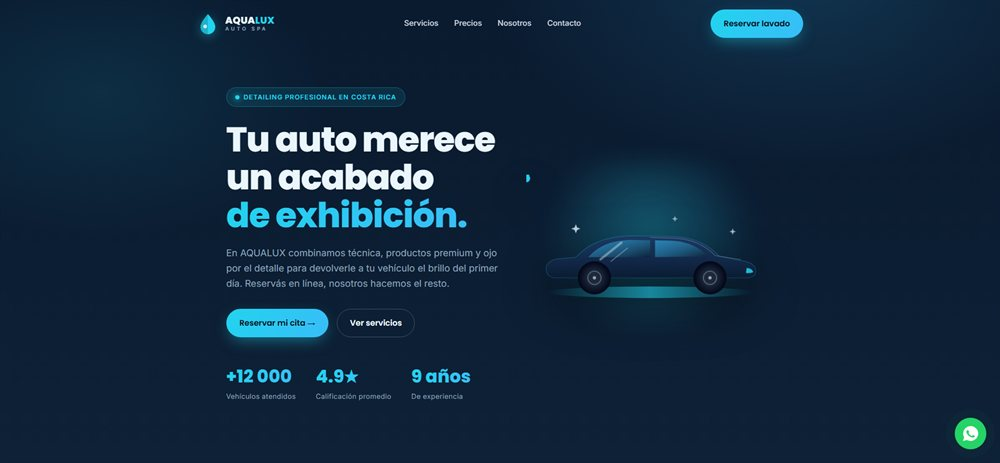
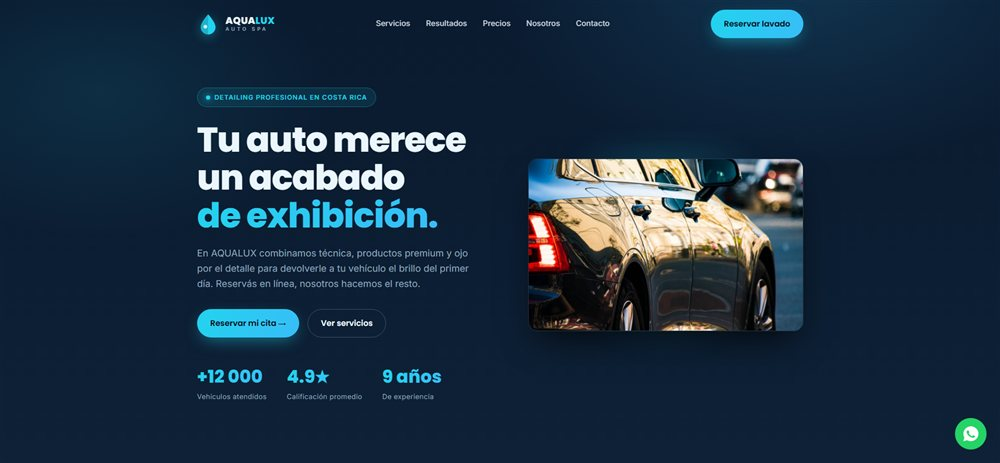
Lavacar hero con foto real + iconos SVG a medida (sin emojis) en las 4 paginas demo

diff --git a/proyectos/lavacar-premium/index.html b/proyectos/lavacar-premium/index.html
@@ -118,6 +118,8 @@
     filter:blur(20px);z-index:0;
   }
   .car-svg{position:relative;z-index:1;width:100%;max-width:560px;filter:drop-shadow(0 30px 40px rgba(0,0,0,.5))}
+  .car-photo{position:relative;z-index:1;width:100%;max-width:560px;border-radius:18px;
+     box-shadow:0 30px 60px -18px rgba(0,0,0,.75);border:1px solid rgba(255,255,255,.1);display:block}
   .droplet{animation:float 5s ease-in-out infinite}
   .droplet:nth-child(2){animation-delay:.8s}
   .droplet:nth-child(3){animation-delay:1.6s}
@@ -151,9 +153,10 @@
   .card:hover::before{opacity:1}
   .card .icon{
     width:60px;height:60px;border-radius:16px;display:flex;align-items:center;justify-content:center;
-    font-size:1.9rem;margin-bottom:20px;
+    font-size:1.9rem;margin-bottom:20px;color:var(--aqua);
     background:rgba(34,211,238,.12);border:1px solid rgba(34,211,238,.25);
   }
+  .ba-hint .swipe-ico{width:1em;height:1em;vertical-align:-.15em;margin-right:.15em;color:var(--aqua)}
   .card h3{font-size:1.28rem;font-weight:600;margin-bottom:10px}
   .card p{color:var(--muted);font-size:.95rem}
 
@@ -343,7 +346,8 @@
 
     <div class="hero-visual reveal">
       <div class="glow"></div>
-      <svg class="car-svg" viewBox="0 0 600 340" xmlns="http://www.w3.org/2000/svg" role="img" aria-label="Ilustración de un auto brillante con destellos y gotas de agua">
+      <img class="car-photo" src="img/hero-car.jpg" alt="Auto con acabado de detailing, brillo espejo">
+      <svg class="car-svg" style="display:none" viewBox="0 0 600 340" xmlns="http://www.w3.org/2000/svg" role="img" aria-label="Ilustración de un auto brillante con destellos y gotas de agua">
         <defs>
           <linearGradient id="body" x1="0" y1="0" x2="0" y2="1">
             <stop offset="0" stop-color="#1b3a63"/><stop offset=".55" stop-color="#12294a"/><stop offset="1" stop-color="#0b1c33"/>
@@ -439,12 +443,12 @@
       <p>Cada servicio se realiza con productos de grado profesional y personal certificado. Elegí lo que tu auto necesita hoy.</p>
     </div>
     <div class="cards">
-      <div class="card reveal"><div class="icon">💦</div><h3>Lavado Express</h3><p>Lavado exterior a mano, secado premium y llantas brillantes en menos de 30 minutos. Ideal para tu rutina semanal.</p></div>
-      <div class="card reveal"><div class="icon">✨</div><h3>Lavado Premium</h3><p>Exterior e interior completo: aspirado profundo, limpieza de tablero, vidrios y aromatización a elección.</p></div>
-      <div class="card reveal"><div class="icon">🛡️</div><h3>Encerado &amp; Sellado</h3><p>Cera de carnauba y sellador sintético que protegen la pintura del sol tropical y realzan el brillo hasta por 3 meses.</p></div>
-      <div class="card reveal"><div class="icon">🧴</div><h3>Detailing Interior</h3><p>Shampoo de tapicería, tratamiento de cuero, descontaminación de plásticos y eliminación de olores a nivel profundo.</p></div>
-      <div class="card reveal"><div class="icon">💡</div><h3>Pulido de Faros</h3><p>Devolvemos la transparencia a faros opacos o amarillentos para más seguridad y una mirada como nueva.</p></div>
-      <div class="card reveal"><div class="icon">💎</div><h3>Tratamiento Cerámico</h3><p>Recubrimiento cerámico 9H con hidrofobia extrema y protección de brillo espejo por hasta 3 años.</p></div>
+      <div class="card reveal"><div class="icon"><svg width="26" height="26" viewBox="0 0 24 24" fill="none" stroke="currentColor" stroke-width="2" stroke-linecap="round" stroke-linejoin="round" style="display:block" aria-hidden="true"><path d="M12 2.7c3.6 4.3 6 7.5 6 10.6a6 6 0 0 1-12 0c0-1.6.6-3.1 1.6-4.7"/><path d="M5.5 15.5c.9 1 .9 2.5 0 3.5M3 12.5c.7.8.7 2 0 2.8"/></svg></div><h3>Lavado Express</h3><p>Lavado exterior a mano, secado premium y llantas brillantes en menos de 30 minutos. Ideal para tu rutina semanal.</p></div>
+      <div class="card reveal"><div class="icon"><svg width="26" height="26" viewBox="0 0 24 24" fill="none" stroke="currentColor" stroke-width="2" stroke-linecap="round" stroke-linejoin="round" style="display:block" aria-hidden="true"><path d="M12 3l1.8 4.7L18.5 9l-4.7 1.8L12 15.5l-1.8-4.7L5.5 9l4.7-1.3z"/><path d="M18 15l.7 1.9 1.8.6-1.8.6-.7 1.9-.7-1.9-1.8-.6 1.8-.6z"/><path d="M6 15.5l.5 1.4 1.4.5-1.4.5-.5 1.4-.5-1.4-1.4-.5 1.4-.5z"/></svg></div><h3>Lavado Premium</h3><p>Exterior e interior completo: aspirado profundo, limpieza de tablero, vidrios y aromatización a elección.</p></div>
+      <div class="card reveal"><div class="icon"><svg width="26" height="26" viewBox="0 0 24 24" fill="none" stroke="currentColor" stroke-width="2" stroke-linecap="round" stroke-linejoin="round" style="display:block" aria-hidden="true"><path d="M12 2.5l7 3v5.5c0 4.4-3 8.1-7 10.5-4-2.4-7-6.1-7-10.5V5.5z"/><path d="M9 12l2 2 4-4.5"/></svg></div><h3>Encerado &amp; Sellado</h3><p>Cera de carnauba y sellador sintético que protegen la pintura del sol tropical y realzan el brillo hasta por 3 meses.</p></div>
+      <div class="card reveal"><div class="icon"><svg width="26" height="26" viewBox="0 0 24 24" fill="none" stroke="currentColor" stroke-width="2" stroke-linecap="round" stroke-linejoin="round" style="display:block" aria-hidden="true"><path d="M9 8h4a2 2 0 0 1 2 2v10a1 1 0 0 1-1 1H8a1 1 0 0 1-1-1V10a2 2 0 0 1 2-2z"/><path d="M9 8V6h3V4h4M12 4v2"/><path d="M18 5h1M20 4h1M19 7h1"/></svg></div><h3>Detailing Interior</h3><p>Shampoo de tapicería, tratamiento de cuero, descontaminación de plásticos y eliminación de olores a nivel profundo.</p></div>
+      <div class="card reveal"><div class="icon"><svg width="26" height="26" viewBox="0 0 24 24" fill="none" stroke="currentColor" stroke-width="2" stroke-linecap="round" stroke-linejoin="round" style="display:block" aria-hidden="true"><path d="M9 18h6M10 21h4"/><path d="M12 3a6 6 0 0 1 4 10.5c-.6.6-1 1.4-1 2.3v.2H9v-.2c0-.9-.4-1.7-1-2.3A6 6 0 0 1 12 3z"/></svg></div><h3>Pulido de Faros</h3><p>Devolvemos la transparencia a faros opacos o amarillentos para más seguridad y una mirada como nueva.</p></div>
+      <div class="card reveal"><div class="icon"><svg width="26" height="26" viewBox="0 0 24 24" fill="none" stroke="currentColor" stroke-width="2" stroke-linecap="round" stroke-linejoin="round" style="display:block" aria-hidden="true"><path d="M6 3h12l3 6-9 12L3 9z"/><path d="M3 9h18M8.5 3l-2.5 6L12 21M15.5 3l2.5 6L12 21"/></svg></div><h3>Tratamiento Cerámico</h3><p>Recubrimiento cerámico 9H con hidrofobia extrema y protección de brillo espejo por hasta 3 años.</p></div>
     </div>
   </div>
 </section>
@@ -490,7 +494,7 @@
       <span class="ba-tag ba-tag-b">Después</span>
       <div class="ba-handle"><span class="ba-line"></span><span class="ba-grip">⇆</span></div>
     </div>
-    <p class="ba-hint">👆 Arrastrá el círculo de lado a lado</p>
+    <p class="ba-hint"><svg class="swipe-ico" viewBox="0 0 24 24" fill="none" stroke="currentColor" stroke-width="2" stroke-linecap="round" stroke-linejoin="round" aria-hidden="true"><path d="M6 10 3 13l3 3M18 10l3 3-3 3M9 13h6"/><path d="M12 3v6"/></svg> Arrastrá el círculo de lado a lado</p>
 
     <div class="sec-head reveal" style="margin-top:100px">
       <span class="sec-tag">Galería</span>
@@ -661,7 +665,7 @@
 
     <div class="foot-bottom">
       <span>© 2026 AQUALUX Auto Spa. Todos los derechos reservados.</span>
-      <span>Hecho con brillo en Costa Rica 🇨🇷 · Cédula jurídica 3-101-889012</span>
+      <span>Hecho con brillo en Costa Rica · Cédula jurídica 3-101-889012</span>
     </div>
   </div>
 </footer>

diff --git a/proyectos/taller-autos/index.html b/proyectos/taller-autos/index.html
@@ -126,7 +126,7 @@
     position:absolute;background:var(--card);border:1px solid var(--line);border-radius:12px;
     padding:12px 16px;box-shadow:var(--shadow);display:flex;align-items:center;gap:11px;z-index:5;
   }
-  .badge-float .bi{width:38px;height:38px;border-radius:9px;background:rgba(255,106,0,.14);display:grid;place-items:center;font-size:19px;flex:0 0 38px}
+  .badge-float .bi{width:38px;height:38px;border-radius:9px;background:rgba(255,106,0,.14);display:grid;place-items:center;font-size:19px;flex:0 0 38px;color:var(--accent)}
   .badge-float b{font-family:'Barlow Condensed',sans-serif;font-size:17px;display:block;line-height:1}
   .badge-float small{color:var(--muted);font-size:12px}
   .badge-1{top:14px;left:-6px;animation:float 5.5s ease-in-out infinite}
@@ -150,7 +150,7 @@
   .card::after{content:"";position:absolute;left:0;top:0;height:3px;width:0;background:var(--accent);transition:width .3s ease}
   .card:hover{transform:translateY(-8px);border-color:rgba(255,106,0,.35);box-shadow:var(--shadow)}
   .card:hover::after{width:100%}
-  .card .ico{width:56px;height:56px;border-radius:12px;background:rgba(255,106,0,.12);border:1px solid rgba(255,106,0,.25);display:grid;place-items:center;font-size:26px;margin-bottom:18px}
+  .card .ico{width:56px;height:56px;border-radius:12px;background:rgba(255,106,0,.12);border:1px solid rgba(255,106,0,.25);display:grid;place-items:center;font-size:26px;margin-bottom:18px;color:var(--accent)}
   .card h3{font-size:24px;font-weight:700;margin-bottom:9px}
   .card p{color:var(--muted);font-size:15px}
 
@@ -305,11 +305,11 @@
 
     <div class="hero-visual" aria-hidden="true">
       <div class="badge-float badge-1">
-        <span class="bi">🛡️</span>
+        <span class="bi"><svg width="20" height="20" viewBox="0 0 24 24" fill="none" stroke="currentColor" stroke-width="2" stroke-linecap="round" stroke-linejoin="round" style="display:block" aria-hidden="true"><path d="M12 22s8-4 8-10V5l-8-3-8 3v7c0 6 8 10 8 10z"/><path d="m9 12 2 2 4-4"/></svg></span>
         <span><b>Garantía escrita</b><small>Hasta 12 meses</small></span>
       </div>
       <div class="badge-float badge-2">
-        <span class="bi">⚙️</span>
+        <span class="bi"><svg width="20" height="20" viewBox="0 0 24 24" fill="none" stroke="currentColor" stroke-width="2" stroke-linecap="round" stroke-linejoin="round" style="display:block" aria-hidden="true"><path d="M12 15a3 3 0 1 0 0-6 3 3 0 0 0 0 6z"/><path d="M19.4 15a1.65 1.65 0 0 0 .33 1.82l.06.06a2 2 0 1 1-2.83 2.83l-.06-.06a1.65 1.65 0 0 0-1.82-.33 1.65 1.65 0 0 0-1 1.51V21a2 2 0 0 1-4 0v-.09A1.65 1.65 0 0 0 9 19.4a1.65 1.65 0 0 0-1.82.33l-.06.06a2 2 0 1 1-2.83-2.83l.06-.06a1.65 1.65 0 0 0 .33-1.82 1.65 1.65 0 0 0-1.51-1H3a2 2 0 0 1 0-4h.09A1.65 1.65 0 0 0 4.6 9a1.65 1.65 0 0 0-.33-1.82l-.06-.06a2 2 0 1 1 2.83-2.83l.06.06a1.65 1.65 0 0 0 1.82.33H9a1.65 1.65 0 0 0 1-1.51V3a2 2 0 0 1 4 0v.09a1.65 1.65 0 0 0 1 1.51 1.65 1.65 0 0 0 1.82-.33l.06-.06a2 2 0 1 1 2.83 2.83l-.06.06a1.65 1.65 0 0 0-.33 1.82V9a1.65 1.65 0 0 0 1.51 1H21a2 2 0 0 1 0 4h-.09a1.65 1.65 0 0 0-1.51 1z"/></svg></span>
         <span><b>Scanner OBD-II</b><small>Diagnóstico preciso</small></span>
       </div>
       <svg viewBox="0 0 460 460" width="100%" style="max-width:460px">
@@ -371,12 +371,12 @@
       <p>Atendemos todas las marcas y modelos con equipo de última generación y técnicos certificados. Un solo taller para todo lo que tu carro necesita.</p>
     </div>
     <div class="grid-3">
-      <div class="card reveal"><div class="ico">🖥️</div><h3>Diagnóstico computarizado</h3><p>Escaneo OBD-II completo para detectar fallas del motor, sensores y sistemas electrónicos con precisión antes de reparar.</p></div>
-      <div class="card reveal"><div class="ico">🔧</div><h3>Mecánica general</h3><p>Motor, transmisión, correa de tiempo, embrague y afinamiento. Mantenimiento preventivo y correctivo para todas las marcas.</p></div>
-      <div class="card reveal"><div class="ico">🛑</div><h3>Frenos</h3><p>Cambio de pastillas, discos, rectificado y purga de líquido. Revisión completa del sistema para tu seguridad en carretera.</p></div>
-      <div class="card reveal"><div class="ico">🚗</div><h3>Suspensión y dirección</h3><p>Amortiguadores, rótulas, terminales y alineación. Recupera la estabilidad y el confort de manejo de tu vehículo.</p></div>
-      <div class="card reveal"><div class="ico">🛢️</div><h3>Cambio de aceite</h3><p>Aceite sintético y semisintético de marcas líderes, con cambio de filtros y revisión de niveles incluida en cada servicio.</p></div>
-      <div class="card reveal"><div class="ico">⚡</div><h3>Sistema eléctrico</h3><p>Alternador, batería, arranque, luces y cableado. Diagnóstico y reparación de fallas eléctricas con garantía.</p></div>
+      <div class="card reveal"><div class="ico"><svg width="26" height="26" viewBox="0 0 24 24" fill="none" stroke="currentColor" stroke-width="2" stroke-linecap="round" stroke-linejoin="round" style="display:block" aria-hidden="true"><rect x="2" y="3" width="20" height="14" rx="2"/><path d="M8 21h8M12 17v4M6 7h6M6 10.5h4"/></svg></div><h3>Diagnóstico computarizado</h3><p>Escaneo OBD-II completo para detectar fallas del motor, sensores y sistemas electrónicos con precisión antes de reparar.</p></div>
+      <div class="card reveal"><div class="ico"><svg width="26" height="26" viewBox="0 0 24 24" fill="none" stroke="currentColor" stroke-width="2" stroke-linecap="round" stroke-linejoin="round" style="display:block" aria-hidden="true"><path d="M14.7 6.3a1 1 0 0 0 0 1.4l1.6 1.6a1 1 0 0 0 1.4 0l3.77-3.77a6 6 0 0 1-7.94 7.94l-6.91 6.91a2.12 2.12 0 0 1-3-3l6.91-6.91a6 6 0 0 1 7.94-7.94l-3.76 3.76z"/></svg></div><h3>Mecánica general</h3><p>Motor, transmisión, correa de tiempo, embrague y afinamiento. Mantenimiento preventivo y correctivo para todas las marcas.</p></div>
+      <div class="card reveal"><div class="ico"><svg width="26" height="26" viewBox="0 0 24 24" fill="none" stroke="currentColor" stroke-width="2" stroke-linecap="round" stroke-linejoin="round" style="display:block" aria-hidden="true"><circle cx="12" cy="12" r="9"/><circle cx="12" cy="12" r="3.5"/><path d="M12 3.5v2.2M12 18.3v2.2M3.5 12h2.2M18.3 12h2.2M6.05 6.05l1.55 1.55M16.4 16.4l1.55 1.55M17.95 6.05l-1.55 1.55M7.6 16.4l-1.55 1.55"/></svg></div><h3>Frenos</h3><p>Cambio de pastillas, discos, rectificado y purga de líquido. Revisión completa del sistema para tu seguridad en carretera.</p></div>
+      <div class="card reveal"><div class="ico"><svg width="26" height="26" viewBox="0 0 24 24" fill="none" stroke="currentColor" stroke-width="2" stroke-linecap="round" stroke-linejoin="round" style="display:block" aria-hidden="true"><path d="M19 17h2c.6 0 1-.4 1-1v-3c0-.9-.7-1.7-1.5-1.9-1.8-.5-4.5-1.1-4.5-1.1s-1.3-1.4-2.2-2.3c-.5-.4-1.1-.7-1.8-.7H5c-.6 0-1.1.4-1.4.9l-1.4 2.9C2 11.1 2 11.5 2 12v4c0 .6.4 1 1 1h2"/><circle cx="7" cy="17" r="2"/><path d="M9 17h6"/><circle cx="17" cy="17" r="2"/></svg></div><h3>Suspensión y dirección</h3><p>Amortiguadores, rótulas, terminales y alineación. Recupera la estabilidad y el confort de manejo de tu vehículo.</p></div>
+      <div class="card reveal"><div class="ico"><svg width="26" height="26" viewBox="0 0 24 24" fill="none" stroke="currentColor" stroke-width="2" stroke-linecap="round" stroke-linejoin="round" style="display:block" aria-hidden="true"><path d="M12 22a7 7 0 0 0 7-7c0-2-1-3.9-3-5.5s-3.5-4-4-6.5c-.5 2.5-2 4.9-4 6.5C6 11.1 5 13 5 15a7 7 0 0 0 7 7z"/></svg></div><h3>Cambio de aceite</h3><p>Aceite sintético y semisintético de marcas líderes, con cambio de filtros y revisión de niveles incluida en cada servicio.</p></div>
+      <div class="card reveal"><div class="ico"><svg width="26" height="26" viewBox="0 0 24 24" fill="none" stroke="currentColor" stroke-width="2" stroke-linecap="round" stroke-linejoin="round" style="display:block" aria-hidden="true"><polygon points="13 2 3 14 12 14 11 22 21 10 12 10 13 2"/></svg></div><h3>Sistema eléctrico</h3><p>Alternador, batería, arranque, luces y cableado. Diagnóstico y reparación de fallas eléctricas con garantía.</p></div>
     </div>
   </div>
 </section>
@@ -431,7 +431,7 @@
       </div>
       <div style="display:flex;gap:14px;flex-wrap:wrap">
         <a href="#contacto" class="btn btn-dark">Agendar cita</a>
-        <a href="tel:[phone redacted]" class="btn btn-ghost" style="border-color:rgba(0,0,0,.35);color:#111">📞 [phone redacted]</a>
+        <a href="tel:[phone redacted]" class="btn btn-ghost" style="border-color:rgba(0,0,0,.35);color:#111"><svg width="18" height="18" viewBox="0 0 24 24" fill="none" stroke="currentColor" stroke-width="2" stroke-linecap="round" stroke-linejoin="round" aria-hidden="true"><path d="M22 16.92v3a2 [phone redacted].[phone redacted] [phone redacted].[phone redacted].67A2 [phone redacted] 2h3a2 [phone redacted].84 0 0 0 .[phone redacted]-.45 2.11L8.09 9.91a16 16 0 0 0 6 6l1.27-1.27a2 [phone redacted]-.[phone redacted].81.7A2 [phone redacted].92z"/></svg> [phone redacted]</a>
       </div>
     </div>
   </div>
@@ -486,7 +486,7 @@
     </div>
     <div class="foot-bottom">
       <span>© 2026 MotorTech · Taller Automotriz S.A. — Cédula jurídica 3-101-XXXXXX. Todos los derechos reservados.</span>
-      <span>Hecho en Costa Rica 🇨🇷 · Sitio de demostración ficticio</span>
+      <span>Hecho en Costa Rica · Sitio de demostración ficticio</span>
     </div>
   </div>
 </footer>

diff --git a/proyectos/gym-titan/index.html b/proyectos/gym-titan/index.html
@@ -68,6 +68,8 @@ section{position:relative;z-index:1}
 .svc{background:var(--card);border:1px solid var(--line);border-radius:14px;padding:32px 28px;transition:.28s}
 .svc:hover{transform:translateY(-8px);border-color:rgba(198,255,0,.4);background:#20242b}
 .svc .ic{font-size:2rem;margin-bottom:16px}
+.svc .ic,.ic{color:var(--lime)}
+.ic svg{display:block}
 .svc h3{font-family:var(--os);text-transform:uppercase;font-size:1.25rem;letter-spacing:.03em;color:var(--ink)}
 .svc p{color:var(--mut);font-size:.94rem;margin-top:10px;font-weight:300}
 
@@ -181,12 +183,12 @@ footer{background:#0a0b0d;border-top:1px solid var(--line);padding:64px 0 28px}
       <p>Desde fuerza pura hasta cardio de alta intensidad, tenemos el programa perfecto para ti.</p>
     </div>
     <div class="grid">
-      <div class="svc rv"><div class="ic">🏋️</div><h3>Musculación</h3><p>Zona de peso libre y máquinas premium para ganar fuerza y masa muscular.</p></div>
-      <div class="svc rv"><div class="ic">🔥</div><h3>CrossFit</h3><p>Entrenamiento funcional de alta intensidad en box equipado con coach dedicado.</p></div>
-      <div class="svc rv"><div class="ic">🚴</div><h3>Spinning</h3><p>Clases de ciclismo indoor con música, luces y energía que te llevan al límite.</p></div>
-      <div class="svc rv"><div class="ic">🥊</div><h3>Boxeo</h3><p>Técnica, cardio y descarga total. Aprende a golpear y ponte en forma.</p></div>
-      <div class="svc rv"><div class="ic">🤸</div><h3>Funcional</h3><p>Movimientos naturales para mejorar movilidad, resistencia y coordinación.</p></div>
-      <div class="svc rv"><div class="ic">🧘</div><h3>Yoga & Movilidad</h3><p>Recupérate, gana flexibilidad y equilibra cuerpo y mente.</p></div>
+      <div class="svc rv"><div class="ic"><svg width="1em" height="1em" viewBox="0 0 24 24" fill="none" stroke="currentColor" stroke-width="2" stroke-linecap="round" stroke-linejoin="round" style="display:block"><path d="M4 8v8"/><path d="M6.5 5.5v13"/><path d="M6.5 12h11"/><path d="M17.5 5.5v13"/><path d="M20 8v8"/></svg></div><h3>Musculación</h3><p>Zona de peso libre y máquinas premium para ganar fuerza y masa muscular.</p></div>
+      <div class="svc rv"><div class="ic"><svg width="1em" height="1em" viewBox="0 0 24 24" fill="none" stroke="currentColor" stroke-width="2" stroke-linecap="round" stroke-linejoin="round" style="display:block"><path d="M8.5 14.5A2.5 2.5 0 0 0 11 12c0-1.38-.5-2-1-3-1.072-2.143-.224-4.054 2-6 .5 2.5 2 4.9 4 6.5 2 1.6 3 3.5 3 5.5a7 7 0 1 1-14 0c0-1.153.433-2.294 1-3a2.5 2.5 0 0 0 2.5 2.5z"/></svg></div><h3>CrossFit</h3><p>Entrenamiento funcional de alta intensidad en box equipado con coach dedicado.</p></div>
+      <div class="svc rv"><div class="ic"><svg width="1em" height="1em" viewBox="0 0 24 24" fill="none" stroke="currentColor" stroke-width="2" stroke-linecap="round" stroke-linejoin="round" style="display:block"><circle cx="18.5" cy="17.5" r="3.5"/><circle cx="5.5" cy="17.5" r="3.5"/><circle cx="15" cy="5" r="1"/><path d="M12 17.5V14l-3-3 4-3 2 3h2"/></svg></div><h3>Spinning</h3><p>Clases de ciclismo indoor con música, luces y energía que te llevan al límite.</p></div>
+      <div class="svc rv"><div class="ic"><svg width="1em" height="1em" viewBox="0 0 24 24" fill="none" stroke="currentColor" stroke-width="2" stroke-linecap="round" stroke-linejoin="round" style="display:block"><path d="M8 8a3 3 0 0 1 3-3h3a3 3 0 0 1 3 3v3a3 3 0 0 1-3 3h-3a3 3 0 0 1-3-3"/><path d="M8 8.5H6.5a1.75 1.75 0 0 0 0 3.5H8"/><path d="M10 14v2.5a2.5 2.5 0 0 0 2.5 2.5h1a2.5 2.5 0 0 0 2.5-2.5V14"/></svg></div><h3>Boxeo</h3><p>Técnica, cardio y descarga total. Aprende a golpear y ponte en forma.</p></div>
+      <div class="svc rv"><div class="ic"><svg width="1em" height="1em" viewBox="0 0 24 24" fill="none" stroke="currentColor" stroke-width="2" stroke-linecap="round" stroke-linejoin="round" style="display:block"><path d="M22 12h-4l-3 9L9 3l-3 9H2"/></svg></div><h3>Funcional</h3><p>Movimientos naturales para mejorar movilidad, resistencia y coordinación.</p></div>
+      <div class="svc rv"><div class="ic"><svg width="1em" height="1em" viewBox="0 0 24 24" fill="none" stroke="currentColor" stroke-width="2" stroke-linecap="round" stroke-linejoin="round" style="display:block"><circle cx="12" cy="5" r="2"/><path d="M12 9v2.5"/><path d="M6 18.5c1.2-2 3.5-3 6-3s4.8 1 6 3"/><path d="M6 18.5c1.8 1 3.8 1.5 6 1.5s4.2-.5 6-1.5"/><path d="M12 11.5 8 15"/><path d="M12 11.5 16 15"/></svg></div><h3>Yoga & Movilidad</h3><p>Recupérate, gana flexibilidad y equilibra cuerpo y mente.</p></div>
     </div>
   </div>
 </section>
@@ -244,10 +246,10 @@ footer{background:#0a0b0d;border-top:1px solid var(--line);padding:64px 0 28px}
       <h2>Más que un gimnasio</h2>
     </div>
     <div class="why-in">
-      <div class="rv"><div class="ic">👟</div><h3>Equipo premium</h3><p>Máquinas Technogym y peso libre de sobra, siempre en óptimas condiciones.</p></div>
-      <div class="rv"><div class="ic">🎓</div><h3>Coaches certificados</h3><p>Profesionales que te guían con técnica y seguridad en cada sesión.</p></div>
-      <div class="rv"><div class="ic">🕒</div><h3>Acceso 24/7</h3><p>Entrena a la hora que se ajuste a tu vida, todos los días.</p></div>
-      <div class="rv"><div class="ic">📊</div><h3>Seguimiento real</h3><p>Medimos tu progreso para que veas resultados, no solo sudor.</p></div>
+      <div class="rv"><div class="ic"><svg width="1em" height="1em" viewBox="0 0 24 24" fill="none" stroke="currentColor" stroke-width="2" stroke-linecap="round" stroke-linejoin="round" style="display:block"><path d="M2 16.5c0-1 .3-1.5 1-2l3-1 2.5-2.5c.4-.4 1-.3 1.3.2L11 13l5 1.5c2.5.7 4 1.8 5 3 .3.4.5 1 .5 1.5H3a1 1 0 0 1-1-1v-1.5Z"/><path d="M2 19h19"/><path d="M9.5 11.2 11 13"/></svg></div><h3>Equipo premium</h3><p>Máquinas Technogym y peso libre de sobra, siempre en óptimas condiciones.</p></div>
+      <div class="rv"><div class="ic"><svg width="1em" height="1em" viewBox="0 0 24 24" fill="none" stroke="currentColor" stroke-width="2" stroke-linecap="round" stroke-linejoin="round" style="display:block"><path d="M22 10 12 5 2 10l10 5 10-5Z"/><path d="M6 12v5c0 1 2.5 2.5 6 2.5s6-1.5 6-2.5v-5"/><path d="M22 10v6"/></svg></div><h3>Coaches certificados</h3><p>Profesionales que te guían con técnica y seguridad en cada sesión.</p></div>
+      <div class="rv"><div class="ic"><svg width="1em" height="1em" viewBox="0 0 24 24" fill="none" stroke="currentColor" stroke-width="2" stroke-linecap="round" stroke-linejoin="round" style="display:block"><circle cx="12" cy="12" r="9"/><path d="M12 7v5l3 2"/></svg></div><h3>Acceso 24/7</h3><p>Entrena a la hora que se ajuste a tu vida, todos los días.</p></div>
+      <div class="rv"><div class="ic"><svg width="1em" height="1em" viewBox="0 0 24 24" fill="none" stroke="currentColor" stroke-width="2" stroke-linecap="round" stroke-linejoin="round" style="display:block"><path d="M3 3v18h18"/><path d="M7 16v-5"/><path d="M12 16V8"/><path d="M17 16v-3"/></svg></div><h3>Seguimiento real</h3><p>Medimos tu progreso para que veas resultados, no solo sudor.</p></div>
     </div>
   </div>
 </section>

diff --git a/proyectos/nails-studio/index.html b/proyectos/nails-studio/index.html
@@ -154,7 +154,7 @@
     box-shadow: var(--shadow-md); padding: 12px 16px; display: flex; align-items: center; gap: 10px;
     font-size: 12px; font-weight: 600; color: var(--plum); letter-spacing: .3px;
   }
-  .float-chip .ic { width: 30px; height: 30px; border-radius: 10px; display: grid; place-items: center; font-size: 15px; background: var(--blush); }
+  .float-chip .ic { width: 30px; height: 30px; border-radius: 10px; display: grid; place-items: center; font-size: 15px; background: var(--blush); color: var(--rose-gold); }
   .chip-a { top: 8px; left: -24px; animation: floaty 6s ease-in-out infinite; }
   .chip-b { bottom: 18px; right: -20px; animation: floaty 6s ease-in-out infinite 1.6s; }
 
@@ -186,7 +186,7 @@
   .card-ic {
     width: 62px; height: 62px; border-radius: 18px; display: grid; place-items: center;
     font-size: 28px; background: linear-gradient(150deg, var(--blush), var(--blush-deep));
-    margin-bottom: 22px;
+    margin-bottom: 22px; color: var(--rose-gold);
   }
   .card h3 { font-size: 27px; margin-bottom: 10px; color: var(--plum); }
   .card p { font-size: 14.5px; color: var(--plum-soft); font-weight: 300; }
@@ -389,8 +389,8 @@
     </div>
 
     <div class="hero-visual reveal d2">
-      <div class="float-chip chip-a"><span class="ic">💅</span> Nail art a mano</div>
-      <div class="float-chip chip-b"><span class="ic">✨</span> Gelish de larga duración</div>
+      <div class="float-chip chip-a"><span class="ic"><svg width="1em" height="1em" viewBox="0 0 24 24" fill="none" stroke="currentColor" stroke-width="1.6" stroke-linecap="round" stroke-linejoin="round" style="display:block" aria-hidden="true"><path d="M15.5 3.5l5 5-8.6 8.6-5-5z"/><path d="M6.9 12.1l-3 3c-1 1-1 3.9-1 4.9 1 0 3.9 0 4.9-1l3-3"/><path d="M13.5 5.5l5 5"/></svg></span> Nail art a mano</div>
+      <div class="float-chip chip-b"><span class="ic"><svg width="1em" height="1em" viewBox="0 0 24 24" fill="none" stroke="currentColor" stroke-width="1.6" stroke-linecap="round" stroke-linejoin="round" style="display:block" aria-hidden="true"><path d="M12 3l1.8 5.2L19 10l-5.2 1.8L12 17l-1.8-5.2L5 10l5.2-1.8z"/><path d="M18.5 14.5l.6 1.9 1.9.6-1.9.6-.6 1.9-.6-1.9-1.9-.6 1.9-.6z"/></svg></span> Gelish de larga duración</div>
       <div class="hero-card">
         <div class="hand-wrap">
           <svg viewBox="0 0 380 420" fill="none" xmlns="http://www.w3.org/2000/svg" role="img" aria-label="Mano elegante con uñas pintadas">
@@ -463,32 +463,32 @@
     </div>
     <div class="cards">
       <div class="card reveal">
-        <div class="card-ic">💐</div>
+        <div class="card-ic"><svg width="1em" height="1em" viewBox="0 0 24 24" fill="none" stroke="currentColor" stroke-width="1.6" stroke-linecap="round" stroke-linejoin="round" style="display:block" aria-hidden="true"><path d="M10 3h4v3h-4z"/><path d="M9.5 6h5l1 2.4V19a2 2 0 0 1-2 2h-3a2 2 0 0 1-2-2V8.4z"/><path d="M8.5 12.5h7"/></svg></div>
         <h3>Manicura clásica</h3>
         <p>Limado, cutícula, hidratación y esmaltado tradicional con acabado impecable y duradero.</p>
       </div>
       <div class="card reveal d1">
-        <div class="card-ic">💎</div>
+        <div class="card-ic"><svg width="1em" height="1em" viewBox="0 0 24 24" fill="none" stroke="currentColor" stroke-width="1.6" stroke-linecap="round" stroke-linejoin="round" style="display:block" aria-hidden="true"><path d="M6 3h12l3 6-9 12L3 9z"/><path d="M3 9h18"/><path d="M9 3l-2.4 6L12 21M15 3l2.4 6L12 21"/></svg></div>
         <h3>Uñas acrílicas</h3>
         <p>Extensiones a medida con la forma y el largo que soñás, resistentes y naturales al tacto.</p>
       </div>
       <div class="card reveal d2">
-        <div class="card-ic">✨</div>
+        <div class="card-ic"><svg width="1em" height="1em" viewBox="0 0 24 24" fill="none" stroke="currentColor" stroke-width="1.6" stroke-linecap="round" stroke-linejoin="round" style="display:block" aria-hidden="true"><path d="M12 3l1.8 5.2L19 10l-5.2 1.8L12 17l-1.8-5.2L5 10l5.2-1.8z"/><path d="M18.5 14.5l.6 1.9 1.9.6-1.9.6-.6 1.9-.6-1.9-1.9-.6 1.9-.6z"/></svg></div>
         <h3>Gelish</h3>
         <p>Esmaltado semipermanente de brillo intenso que luce perfecto por más de tres semanas.</p>
       </div>
       <div class="card reveal">
-        <div class="card-ic">🎨</div>
+        <div class="card-ic"><svg width="1em" height="1em" viewBox="0 0 24 24" fill="none" stroke="currentColor" stroke-width="1.6" stroke-linecap="round" stroke-linejoin="round" style="display:block" aria-hidden="true"><path d="M12 3a9 9 0 1 0 0 18c1 0 1.5-.9 1-1.9-.5-1.2.4-2.1 1.6-2.1H17a4 4 0 0 0 4-4c0-5-4-8-9-8z"/><circle cx="7.5" cy="11" r="1"/><circle cx="12" cy="7.5" r="1"/><circle cx="16.5" cy="11" r="1"/></svg></div>
         <h3>Nail Art</h3>
         <p>Diseños pintados a mano: florales, minimal, cromados o pedrería. Piezas únicas para vos.</p>
       </div>
       <div class="card reveal d1">
-        <div class="card-ic">🌿</div>
+        <div class="card-ic"><svg width="1em" height="1em" viewBox="0 0 24 24" fill="none" stroke="currentColor" stroke-width="1.6" stroke-linecap="round" stroke-linejoin="round" style="display:block" aria-hidden="true"><path d="M4 20c0-9 6-15 16-16C19 13 13 20 4 20z"/><path d="M4 20C6 14 10 10 15 8"/></svg></div>
         <h3>Pedicura spa</h3>
         <p>Exfoliación, masaje relajante y esmaltado en un ritual que revive y consiente tus pies.</p>
       </div>
       <div class="card reveal d2">
-        <div class="card-ic">🤍</div>
+        <div class="card-ic"><svg width="1em" height="1em" viewBox="0 0 24 24" fill="none" stroke="currentColor" stroke-width="1.6" stroke-linecap="round" stroke-linejoin="round" style="display:block" aria-hidden="true"><path d="M12 20S3.5 14.7 3.5 8.9C3.5 6 5.7 4 8.2 4c1.7 0 3 .9 3.8 2.1C12.8 4.9 14.1 4 15.8 4c2.5 0 4.7 2 4.7 4.9C20.5 14.7 12 20 12 20z"/></svg></div>
         <h3>Retiro y cuidado</h3>
         <p>Remoción segura de acrílico o gel y tratamiento fortalecedor para uñas sanas y renovadas.</p>
       </div>
@@ -635,7 +635,7 @@
     </div>
     <div class="foot-bottom">
       <span>© 2026 Lila Nail Studio · Todos los derechos reservados.</span>
-      <span>Hecho con cariño en Costa Rica 🇨🇷</span>
+      <span>Hecho con cariño en Costa Rica</span>
     </div>
   </div>
 </footer>